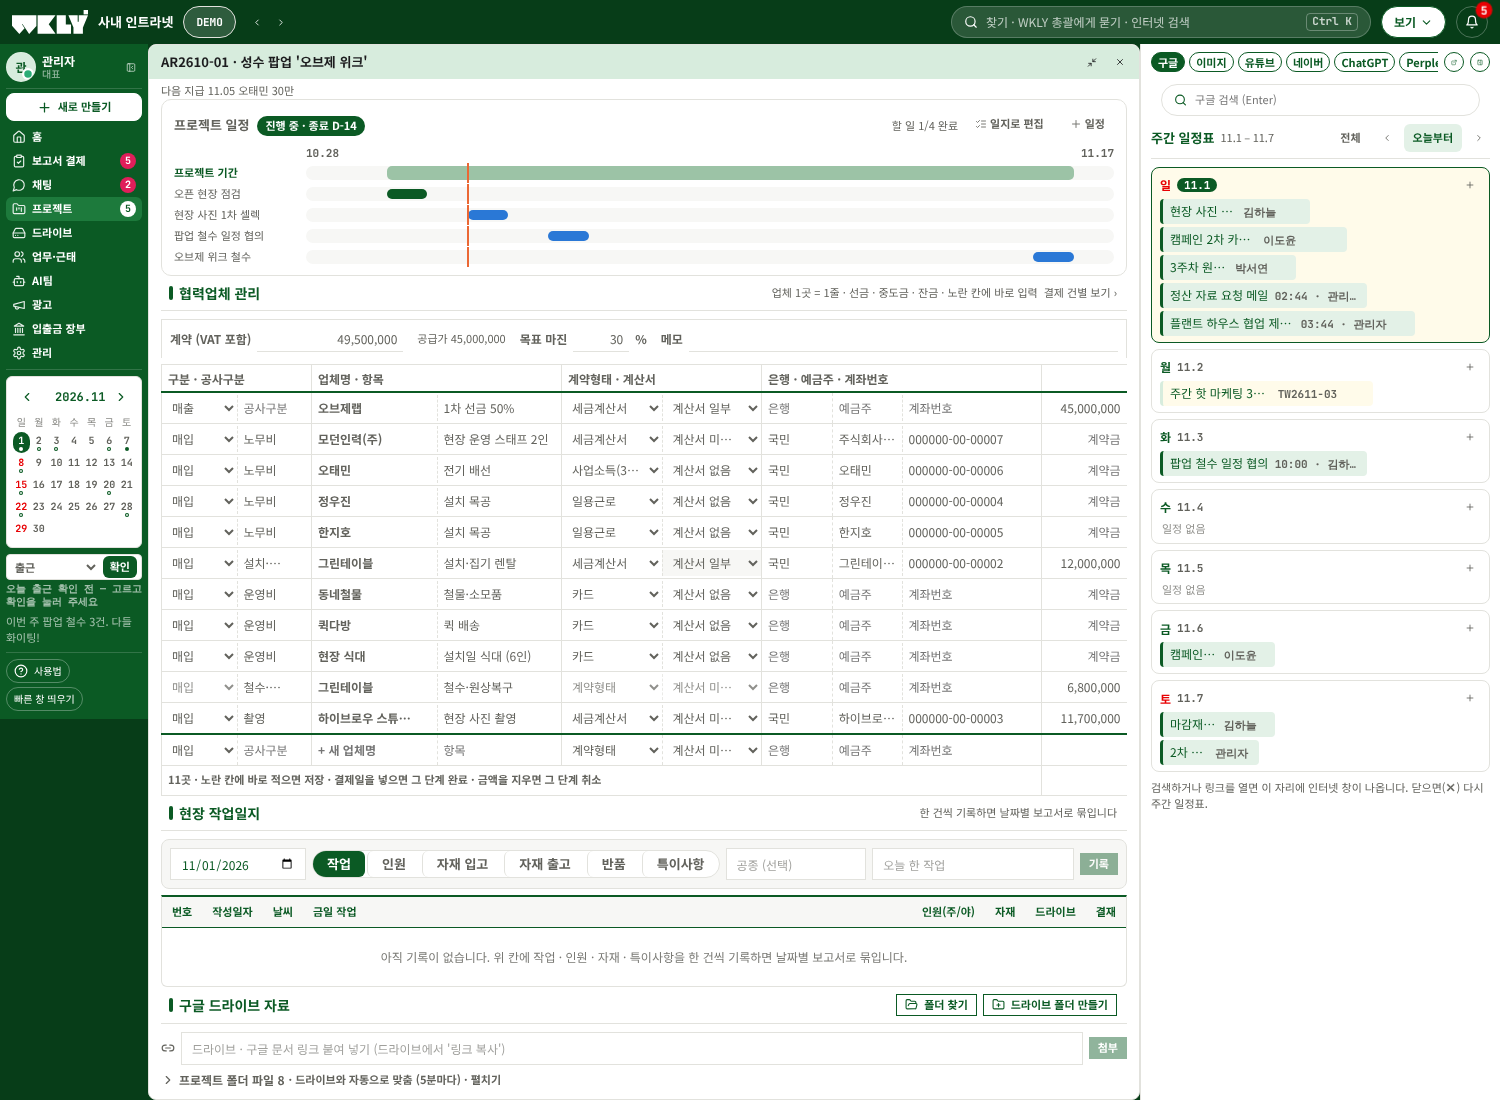
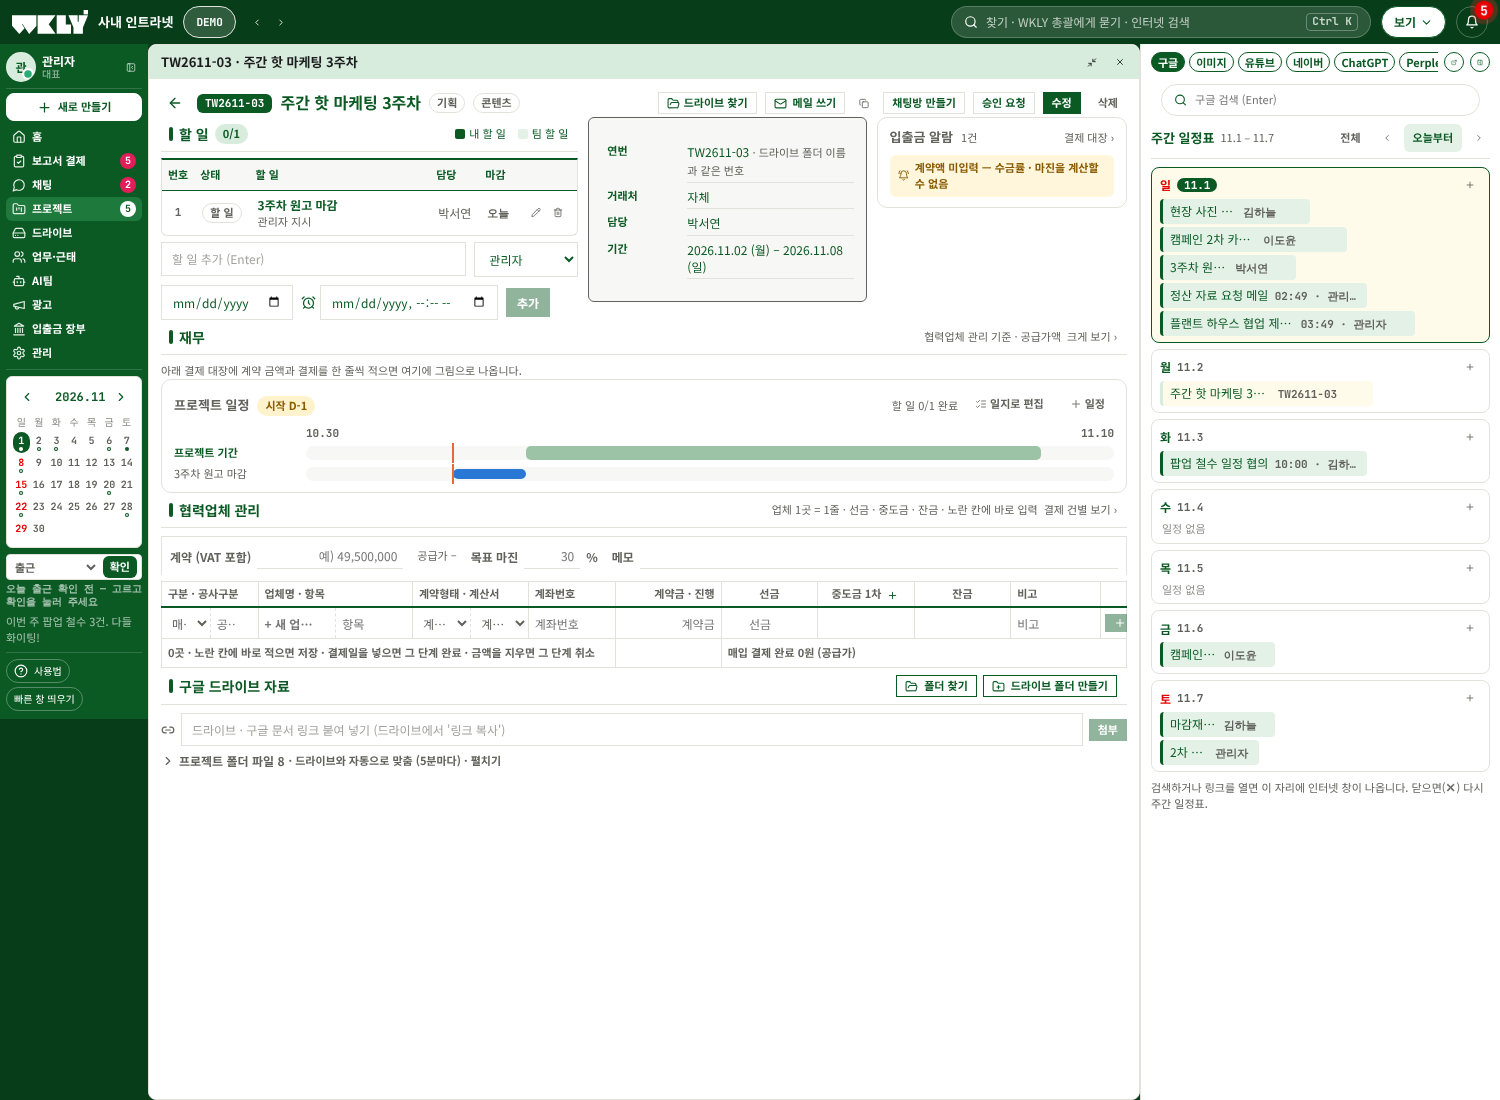
할 일 · 개요 · 알람 한 줄 · 협력업체 관리 한 화면 (#228)
* 메모 링크 클릭 가능 · 일정표 프로젝트 고르기를 풀다운으로

- 메모 칸 아래 링크 칩(새 창), 저장된 메모의 링크도 클릭
- 일정표 프로젝트 칩 목록을 상태별 묶음 풀다운으로

Claude-Session: https://claude.ai/code/session_01F3gTQwJrgJEzSdbh5GAwru

* 일정표: NIC 프로젝트는 접힌 묶음으로

Claude-Session: https://claude.ai/code/session_01F3gTQwJrgJEzSdbh5GAwru

* WKLY 총괄 실시간 답(스트리밍) · 자료실 종류 풀다운 · 웹 패널 검색창 · 프로젝트 목록 묶음 구분

- agent-chat: 답을 쓰는 대로 Realtime 비공개 방송, 화면은 말풍선에 실시간 표시 (0062 정책)
- 자료실: 상태 · 종류 풀다운(실제 종류 전부 + 개수), 자주 쓰는 종류 칩, 상세에서 종류 · 상태 바로 변경
- 웹 패널 안에 검색창 다시 표시
- 프로젝트 검색 목록: 묶음 머리 색 · 개수 · 접기 (완료 · 보류는 접힘), 연번 표시

Claude-Session: https://claude.ai/code/session_01F3gTQwJrgJEzSdbh5GAwru

* 보고서 링크 클릭 · 업무 일지 입력칸 정리

- AI 보고서 요약 · 본문 속 링크를 모두 클릭 가능하게
- 업무 일지 입력: 종류 풀다운 · 분 · 기록 한 줄, 내용칸 넓게, 거래처 · 프로젝트는 아래 한 줄

Claude-Session: https://claude.ai/code/session_01F3gTQwJrgJEzSdbh5GAwru

* 업무 화면 정리: 할 일 오른쪽 창 · 프로젝트 구분 · 여백 정리

- 업무 일지의 할 일 · 메모장을 오른쪽 창으로 (좁은 화면은 아래), 할 일 버튼에 지연 개수
- 프로젝트 검색 목록: 상태 묶음 안에서 더위클리 · 아트리어 · 내부 리서치로 나눠 색 표시
- 뒤로 · 앞으로를 위쪽 바로 옮겨 가운데 위 한 줄 제거, 업무 머리줄 한 줄로

Claude-Session: https://claude.ai/code/session_01F3gTQwJrgJEzSdbh5GAwru

* 프로젝트: 가운데 목록 · 오른쪽 대시보드 요약/상세

- 넓은 화면 첫 화면: 가운데 프로젝트 목록, 오른쪽 창 대시보드 요약, 프로젝트를 누르면 오른쪽이 그 프로젝트 상세

Claude-Session: https://claude.ai/code/session_01F3gTQwJrgJEzSdbh5GAwru

* 디자인: 슬랙식 화면 · 키 컬러 초록(#0B5A24)

- 노란 바탕 · 점선 틀 제거, 창 가득 · 얇은 실선
- 위쪽 바 · 왼쪽 사이드바 짙은 초록, 본문 흰색, 선택 · 버튼 초록, 알림 숫자 빨강
- 아트리어 구분색 파랑, 브라우저 탭 색 · 아이콘 초록, 다크 모드 색 맞춤

Claude-Session: https://claude.ai/code/session_01F3gTQwJrgJEzSdbh5GAwru
[…]

diff --git a/erp/src/components/VendorSheet.tsx b/erp/src/components/VendorSheet.tsx
@@ -19,6 +19,17 @@ const parseMoney = (s: string) => Number(s.replace(/[^\d]/g, '')) || 0
 const norm = (s: string) => s.replace(/\s|㈜|\(주\)|주식회사/g, '').toLowerCase()
 const order = (p: Payment) => p.requested_date ?? p.due_date ?? p.paid_date ?? p.created_at.slice(0, 10)
 const vatOf = (amount: number, type: Payment['contract_type'], prev?: Payment) => (prev ? (prev.vat ? Math.round(amount / 11) : 0) : type === '세금계산서' ? Math.round(amount / 11) : 0)
+/** 결제일 칸: '10.30' · '2026-10-30' · 't'(오늘) · 빈칸(지움) → yyyy-mm-dd | null, 못 읽으면 undefined */
+const parseDay = (v: string): string | null | undefined => {
+  const t = v.trim()
+  if (!t) return null
+  if (/^(t|오늘)$/i.test(t)) return todayKey()
+  const full = /^(\d{4})[.\-/ ](\d{1,2})[.\-/ ](\d{1,2})/.exec(t)
+  const short = /^(\d{1,2})[.\-/ ](\d{1,2})$/.exec(t)
+  const [y, m, d] = full ? [full[1], full[2], full[3]] : short ? [todayKey().slice(0, 4), short[1], short[2]] : []
+  if (!y || !m || !d) return undefined
+  return `${y}-${m.padStart(2, '0')}-${d.padStart(2, '0')}`
+}
 const live = (p: Payment) => p.status !== '취소' && !p.is_estimate
 
 interface Vendor {
@@ -257,16 +268,16 @@ export function VendorSheet({ projectId, payments, all, lines, finance, onOpen }
       </datalist>
       <table className="pay-sheet vendor-sheet one-line">
         <colgroup>
-          <col style={{ width: 150 }} />
-          <col style={{ width: 250 }} />
-          <col style={{ width: 200 }} />
-          <col style={{ width: 280 }} />
-          <col style={{ width: 170 }} />
+          <col style={{ width: '10%' }} />
+          <col style={{ width: '16%' }} />
+          <col style={{ width: '12%' }} />
+          <col style={{ width: '9%' }} />
+          <col style={{ width: '11%' }} />
           {stages.map(s => (
-            <col key={s.key} style={{ width: 210 }} />
+            <col key={s.key} style={{ width: '10%' }} />
           ))}
-          <col style={{ width: 150 }} />
-          <col style={{ width: 28 }} />
+          <col />
+          <col style={{ width: 26 }} />
         </colgroup>
         <thead>
           <tr>
@@ -280,7 +291,7 @@ export function VendorSheet({ projectId, payments, all, lines, finance, onOpen }
               계약형태 · 계산서
             </th>
             <th>
-              은행 · 예금주 · 계좌번호
+              계좌번호
             </th>
             <th className="num" title="매입: 업체 계약금(공급가) · 매출: 프로젝트 계약(공급가)">
               계약금 · 진행
@@ -331,11 +342,7 @@ export function VendorSheet({ projectId, payments, all, lines, finance, onOpen }
                     ))}
                   </select>
                 </td>
-                <td className="vs-2">
-                  <span className="vs-pair">
-                    {txt(v.bank, x => saveVendor(v, { bank_name: x }), '은행')}
-                    {txt(v.holder, x => saveVendor(v, { account_holder: x }), '예금주')}
-                  </span>
+                <td className="vs-2" title={[v.bank, v.holder].filter(Boolean).join(' · ') || '은행 · 예금주는 … 에서'}>
                   {txt(v.account, x => saveVendor(v, { account_no: x }), '계좌번호')}
                 </td>
                 <td className="vs-2">
@@ -347,7 +354,7 @@ export function VendorSheet({ projectId, payments, all, lines, finance, onOpen }
                   return (
                     <td key={s.key} className={`vs-2 vs-stage ${cur && isDone(cur) ? 'done' : ''}`}>
                       <input className="ps-in num" inputMode="numeric" defaultValue={money(cur?.amount)} placeholder="금액" onBlur={e => saveStage(v, s.label, cur, { amount: parseMoney(e.target.value) })} onKeyDown={blurOnEnter} aria-label={`${s.label} 결제 금액`} />
-                      <input className="ps-in vs-day" type="date" defaultValue={cur?.paid_date ?? ''} disabled={!cur} onBlur={e => saveStage(v, s.label, cur, { paid_date: e.target.value || null })} aria-label={`${s.label} 결제일자`} title="결제일자 (넣으면 결제 완료)" />
+                      <input className="ps-in vs-day" defaultValue={cur?.paid_date ? cur.paid_date.slice(5).replace('-', '.') : ''} placeholder="결제일" disabled={!cur} onBlur={e => { const d2 = parseDay(e.target.value); if (d2 !== undefined) saveStage(v, s.label, cur, { paid_date: d2 }) }} onKeyDown={blurOnEnter} aria-label={`${s.label} 결제일자`} title={cur?.paid_date ? `결제일 ${cur.paid_date}` : '결제일 (예: 10.30 · 오늘이면 t) — 넣으면 결제 완료'} />
                     </td>
                   )
                 })}
@@ -406,10 +413,6 @@ export function VendorSheet({ projectId, payments, all, lines, finance, onOpen }
               </select>
             </td>
             <td className="vs-2">
-              <span className="vs-pair">
-                <input className="ps-in" value={d.bank} onChange={e => setD({ ...d, bank: e.target.value })} onKeyDown={enter} placeholder="은행" aria-label="새 업체 은행명" />
-                <input className="ps-in" value={d.holder} onChange={e => setD({ ...d, holder: e.target.value })} onKeyDown={enter} placeholder="예금주" aria-label="새 업체 예금주" />
-              </span>
               <input className="ps-in" value={d.account} onChange={e => setD({ ...d, account: e.target.value })} onKeyDown={enter} placeholder="계좌번호" aria-label="새 업체 계좌번호" />
             </td>
             <td className="vs-2">

diff --git a/erp/src/pages/Projects.tsx b/erp/src/pages/Projects.tsx
@@ -764,8 +764,9 @@ function ProjectDetail({ project: p, data, onEdit, onBack, panel = false }: { pr
           </Button>
         )}
       </div>
-      {/* 순서 (대표 지시 2026-10-31): ⓪ 할 일 (맨 위) ① 프로젝트 개요 + 입출금 알람 ② 재무 ③ 프로젝트 일정 ④ 협력업체 관리 ⑤ 현장 작업일지 */}
-      <div className="row top gap-12" style={{ flexWrap: 'wrap' }}>
+      {/* 순서 (대표 지시 2026-10-31): ① 할 일 · 프로젝트 개요 · 입출금 알람 (한 줄) ② 재무 ③ 프로젝트 일정 ④ 협력업체 관리 ⑤ 현장 작업일지 */}
+      {/* 맨 위 한 줄: 할 일 · 프로젝트 개요 · 입출금 알람 (대표 지시 2026-10-31) */}
+      <div className="proj-top3">
         <div className="col grow" style={{ flexBasis: 300 }}>
           <SectionHead title="할 일" count={`${tasks.filter(t => t.status === '완료').length}/${tasks.length}`} right={<TaskLegend />} />
           <TaskBoard
@@ -778,14 +779,6 @@ function ProjectDetail({ project: p, data, onEdit, onBack, panel = false }: { pr
           />
           <TaskAdder projectId={p.id} defaultAssignee={me.id} />
         </div>
-        <div className="col proj-inline-materials" style={{ flexBasis: 240, flexGrow: 1, maxWidth: 360 }}>
-          <ProjectContactsSection project={p} clients={data.clients} contacts={extra.contacts} />
-          <ExchangeFilesSection clientId={p.client_id} projectId={p.id} contacts={extra.contacts} projects={data.projects} />
-          <SectionHead title="관련 업무 기록" count={extra.logs.length ? String(extra.logs.length) : undefined} right={<Link to={`/work?team=1`}>업무 일지 ›</Link>} />
-          <ContactTimeline logs={extra.logs} projects={[]} showContact contacts={extra.contacts} />
-        </div>
-      </div>
-      <div className="pviz-row head proj-top">
       <div className="box">
         <dl className="kv">
           <dt>연번</dt>
@@ -814,6 +807,14 @@ function ProjectDetail({ project: p, data, onEdit, onBack, panel = false }: { pr
       </div>
       <FinancePanel project={p} clients={data.clients} projects={data.projects} part="viz" />
       <ProjectVizLoader project={p} part="schedule" />
+      <div className="row top gap-12 proj-side-row" style={{ flexWrap: 'wrap' }}>
+        <div className="col proj-inline-materials" style={{ flexBasis: 240, flexGrow: 1 }}>
+          <ProjectContactsSection project={p} clients={data.clients} contacts={extra.contacts} />
+          <ExchangeFilesSection clientId={p.client_id} projectId={p.id} contacts={extra.contacts} projects={data.projects} />
+          <SectionHead title="관련 업무 기록" count={extra.logs.length ? String(extra.logs.length) : undefined} right={<Link to={`/work?team=1`}>업무 일지 ›</Link>} />
+          <ContactTimeline logs={extra.logs} projects={[]} showContact contacts={extra.contacts} />
+        </div>
+      </div>
       {/* ⑤ 협력업체 관리 ⑥ 현장 작업일지(자재 입출고 포함 — 별도 칸 없음, 대표 지시 2026-10-31) */}
       <FinancePanel project={p} clients={data.clients} projects={data.projects} part="ledger" />
       {/* 인테리어(아트리어 · AR)는 현장 작업일지 늘, 다른 프로젝트는 작업일지가 있을 때만 */}

diff --git a/erp/src/styles.css b/erp/src/styles.css
@@ -2735,3 +2735,14 @@ html.detail-full .detail-col.full .col-resize { display: none; }
 .contract-goal .ps-in { background: var(--white, #fff); border-bottom: 1px solid var(--line, #ddd); }
 .vendor-sheet.one-line td.vs-2 > .vs-pair { display: inline-flex; }
 .vendor-sheet.one-line td.vs-2 > .vs-pair > .ps-in { display: inline-block; width: 50%; border-bottom: 0; }
+/* 협력업체 관리 · 한 화면 맞춤 (계좌번호만, 결제일은 10.30 처럼 짧게) */
+.pay-sheet.vendor-sheet.one-line { width: 100%; min-width: 900px; table-layout: fixed; }
+.vendor-sheet.one-line td.vs-stage > .ps-in:first-child { width: 58%; }
+.vendor-sheet.one-line td.vs-stage > .ps-in.vs-day { width: 42%; text-align: center; font-size: 11px; }
+.vendor-sheet.one-line td.vs-2 > :only-child { width: 100%; }
+.vendor-sheet.one-line th { font-size: 11px; }
+.vendor-sheet.one-line th .t-cap { display: none; }
+/* 프로젝트 상세 맨 위 한 줄: 할 일 · 개요 · 입출금 알람 */
+.proj-top3 { display: grid; grid-template-columns: minmax(0, 1.5fr) minmax(0, 1fr) minmax(0, 0.9fr); gap: 10px; align-items: start; }
+.proj-top3 > .box { margin: 0; }
+@media (max-width: 1100px) { .proj-top3 { grid-template-columns: 1fr; } }
